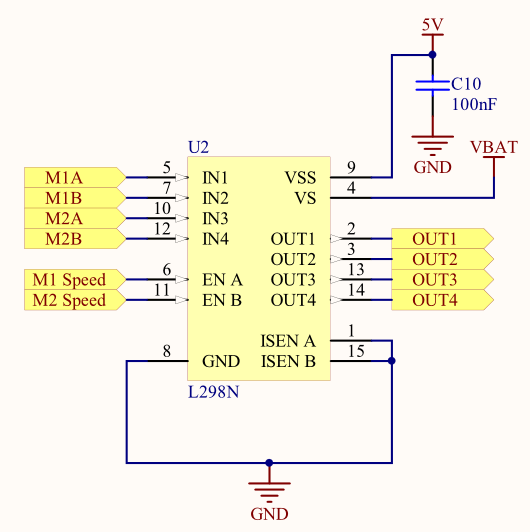
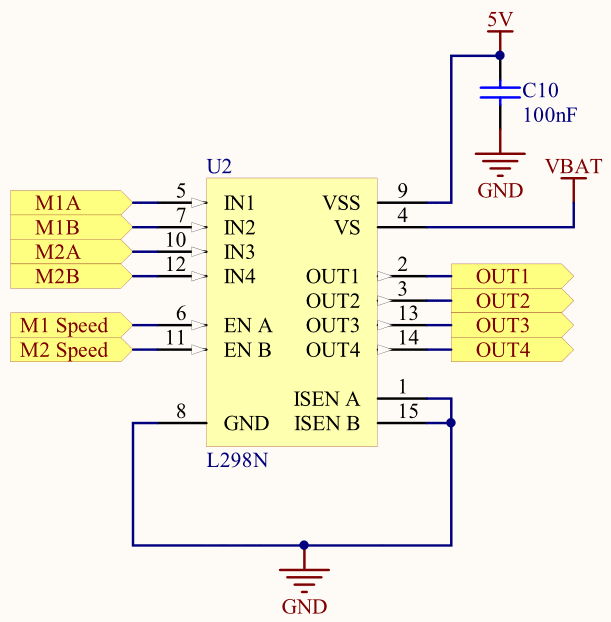
Thesis: Re-make schematic figures without f.lux turned on, so it doesn't look like I've been writing my thesis on the surface of Mars.

Changed region(s): [[0.0, 0.0, 0.9962, 0.9925]]

diff --git a/Thesis/Chapters/Chapter5.tex b/Thesis/Chapters/Chapter5.tex
@@ -1,0 +1,117 @@
+\chapter{Robot Firmware Implementation}
+\label{Chapter 5}
+\lhead{Chapter 5. \emph{Robot Firmware Implementation}}
+
+With the creation of the software embedded Bluetooth stack and the \textit{ExplorerBot} test robot platform hardware, it was neccesary to integrate these two components into a functional prototype. By using the Bluetooth stack in a real-world, practical application while it was being developed, the quality, effectiveness and completeness of the stack could be evaluated.
+
+\section{Build Dependencies}
+
+To match the Bluetooth stack, each module was written in the C language, and targeted at the free open source AVR-GCC compiler and avr-libc library. A standard \textit{makefile} included with the firmware allows for command line control over the building of the project files into a set of binaries which can then be programmed into the target microcontroller for use via the command \texttt{make all}. The following tools are required to build the firmware under Windows:
+
+\begin{itemize}
+	\item The \textbf{WinAVR 20100101} release download, or Windows binaries of the \textbf{GNU Shell Utilities}
+	\item The latest \textbf{AVR Toolchain} release from Atmel (Included with Atmel's free \textit{AVRStudio 5} software)
+\end{itemize}
+
+Under Debian Linux environments, the following packages are required:
+
+\begin{itemize}
+	\item \textbf{gcc-avr} 
+	\item \textbf{binutils-avr}
+	\item \textbf{avr-libc}
+	\item \textbf{avrdude}
+\end{itemize}
+
+Which can be installed via the command prompt using the command \texttt{sudo apt-get install gcc-avr binutils-avr avr-libc avrdude}.
+
+\section{Firmware Overview}
+
+The completed firmware of the \textit{ExplorerBot} prototype was developed in a modular manner, to match the corresponding hardware components. This top-down methodology ensured that each portion of the firmware could be mocked up, tested and integrated as needed. Additionally, seperating out the firmware components into logical modules gave the final firmware a level of flexibility which should allow for easy modification to suit any hardware changes made to those of the prototype. The completed set of modules (see Figure \ref{fig:robotblockfw}) served as the complete firmware for the robot.
+
+\begin{figure}[H]
+	\vspace{1em}
+	\centering
+		\includegraphics[width=140mm]{./Figures/FirmwareBlockDiagram.png}
+	\rule{35em}{0.5pt}
+	\caption[Firmware Block Diagram]{Robot Firmware Block Diagram}
+	\label{fig:robotblockfw}
+\end{figure}
+
+\section{Firmware Modules}
+
+In this section, each of the robot firmware's main software modules are listed and described in additional detail so that the overall design and implementation of the firmware can be further understood.
+
+\FloatBarrier
+\subsection{Main System Control and Configuration}
+
+% TODO
+
+\FloatBarrier
+\subsection{Hardware Drivers}
+
+% TODO
+
+\FloatBarrier
+\subsection{Sensor Platform}
+
+% TODO
+
+\FloatBarrier
+\subsubsection{Abstract Sensor Management}
+
+% TODO
+
+\FloatBarrier
+\subsubsection{Individual Sensor Drivers}
+
+% TODO
+
+\FloatBarrier
+\subsection{USB Management}
+
+% TODO
+
+\FloatBarrier
+\subsubsection{Bluetooth Adapters}
+
+% TODO
+
+\FloatBarrier
+\subsubsection{HID Devices}
+
+% TODO
+
+\FloatBarrier
+\subsubsection{Mass Storage Devices}
+
+% TODO
+
+\FloatBarrier
+\subsection{Bluetooth Management}
+
+% TODO
+
+\FloatBarrier
+\subsubsection{Stack Integration Layer}
+
+% TODO
+
+\FloatBarrier
+\subsubsection{Bluetooth Stack}
+
+% TODO
+
+\FloatBarrier
+\subsection{Third Party Modules}
+
+% TODO
+
+\FloatBarrier
+\subsubsection{LUFA}
+
+% TODO
+
+\FloatBarrier
+\subsubsection{FatFS}
+
+% TODO
